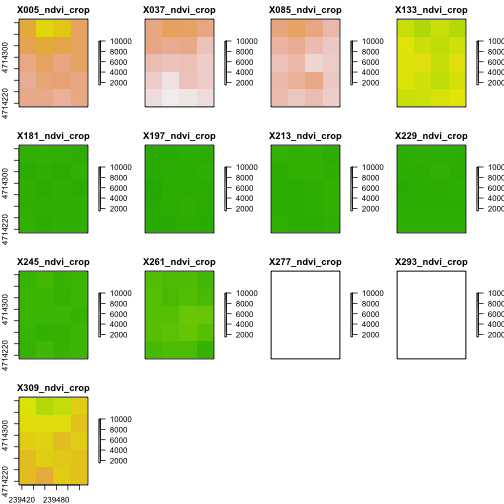
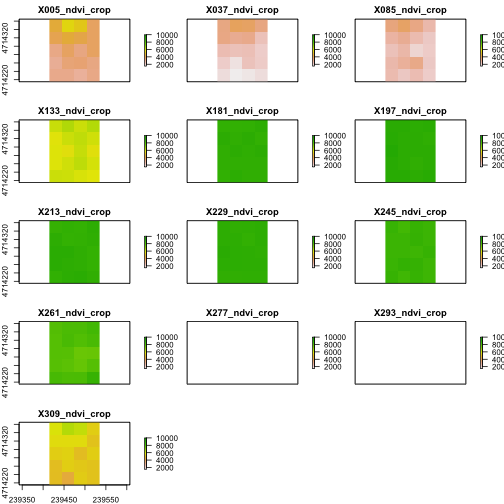
added animated gif

diff --git a/_posts/sampleLessons/2015-10-10-work-with-NDVI-daylength.md b/_posts/sampleLessons/2015-10-10-work-with-NDVI-daylength.md
@@ -29,16 +29,12 @@ CRS: UTM ZONE 18N FOR HARVARD
 
 
     #import imagery
-    baseImage <- stack("Landsat_TimeSeries/AOP/14060113_EH021656(20140601155722)-0263_ort.tif")
-
-    ## Error in .rasterObjectFromFile(x, objecttype = "RasterBrick", ...): Cannot create a RasterLayer object from this file. (file does not exist)
-
+    baseImage <- stack("AOP/14060113_EH021656(20140601155722)-0263_ort.tif")
+    
     #plot the image for the site
     plotRGB(baseImage,r=1,g=2,b=3, 
             main="Harvard Tower Site")
-
-    ## Error in plotRGB(baseImage, r = 1, g = 2, b = 3, main = "Harvard Tower Site"): error in evaluating the argument 'x' in selecting a method for function 'plotRGB': Error: object 'baseImage' not found
-
+    
     #add the shapefile 
     #note: read ogr is preferred as it maintains prj info
     squarePlot <- readOGR("Landsat_TimeSeries/","HarClip_UTMZ18")
@@ -51,7 +47,7 @@ CRS: UTM ZONE 18N FOR HARVARD
     #add the plot boundary to the image.
     plot(squarePlot, col="yellow", add=TRUE)
 
-    ## Error in polypath(x = mcrds[, 1], y = mcrds[, 2], border = border, col = col, : plot.new has not been called yet
+![ ]({{ site.baseurl }}/images/rfigs/2015-10-10-work-with-NDVI-daylength/view-basemap-1.png) 
 
 
 #Crop the Base Image to the AOI
@@ -61,12 +57,10 @@ Concerned with size but i think a bit larger could be ok.
 
     #crop the image to the plot boundary?
     new <- crop(baseImage,squarePlot)
-
-    ## Error in crop(baseImage, squarePlot): error in evaluating the argument 'x' in selecting a method for function 'crop': Error: object 'baseImage' not found
-
+    
     plotRGB(new, axes=F,main="RGB image cropped")
 
-    ## Error in (function (classes, fdef, mtable) : unable to find an inherited method for function 'plotRGB' for signature '"function"'
+![ ]({{ site.baseurl }}/images/rfigs/2015-10-10-work-with-NDVI-daylength/crop-image-1.png) 
 
     #not sure how to add a title to plotRGB??
     
@@ -74,8 +68,6 @@ Concerned with size but i think a bit larger could be ok.
     #write the geotiff - change overwrite=TRUE to overwrite=FALSE if you want to 
     #make sure you don't overwrite your files!
     writeRaster(new,"new","GTiff", overwrite=TRUE)
-
-    ## Error in (function (classes, fdef, mtable) : unable to find an inherited method for function 'writeRaster' for signature '"function", "character"'
 
 #Step 2
 
@@ -97,16 +89,16 @@ Import the NDVI time series.
     
     
     
-    layout(matrix(c(1,1,2,3), 2, 2, byrow = TRUE))
+    #layout(matrix(c(1,1,2,3), 2, 2, byrow = TRUE))
     #would like to figure out how to plot these with 2-3 in each row rather than 4
-    plot(rastStack, zlim=c(1500,10000))
+    plot(rastStack, zlim=c(1500,10000),nc=3)
 
 ![ ]({{ site.baseurl }}/images/rfigs/2015-10-10-work-with-NDVI-daylength/process-NDVI-images-1.png) 
 
     #adjust the layout
     par(mfrow=c(7,2))
     #plot histograms for each image
-    hist(rastStack,xlim=c(1500,10000),nc=2)
+    hist(rastStack,xlim=c(1500,10000))
 
     ## Error in plot.new(): figure margins too large
 
@@ -180,7 +172,7 @@ Now, let's plot NDVI for one year
 
 ##The animated gif!
 
-![NDVI time series animation]({{ site.baseurl }}/images/rfigs.2015-10-10-work-with-NDVI-daylength/ndvi.gif)
+![NDVI time series animation]({{ site.baseurl }}/images/rfigs/2015-10-10-work-with-NDVI-daylength/ndvi.gif)
 
 Time series for NDVI for 2009 at Harvard Forest
 
